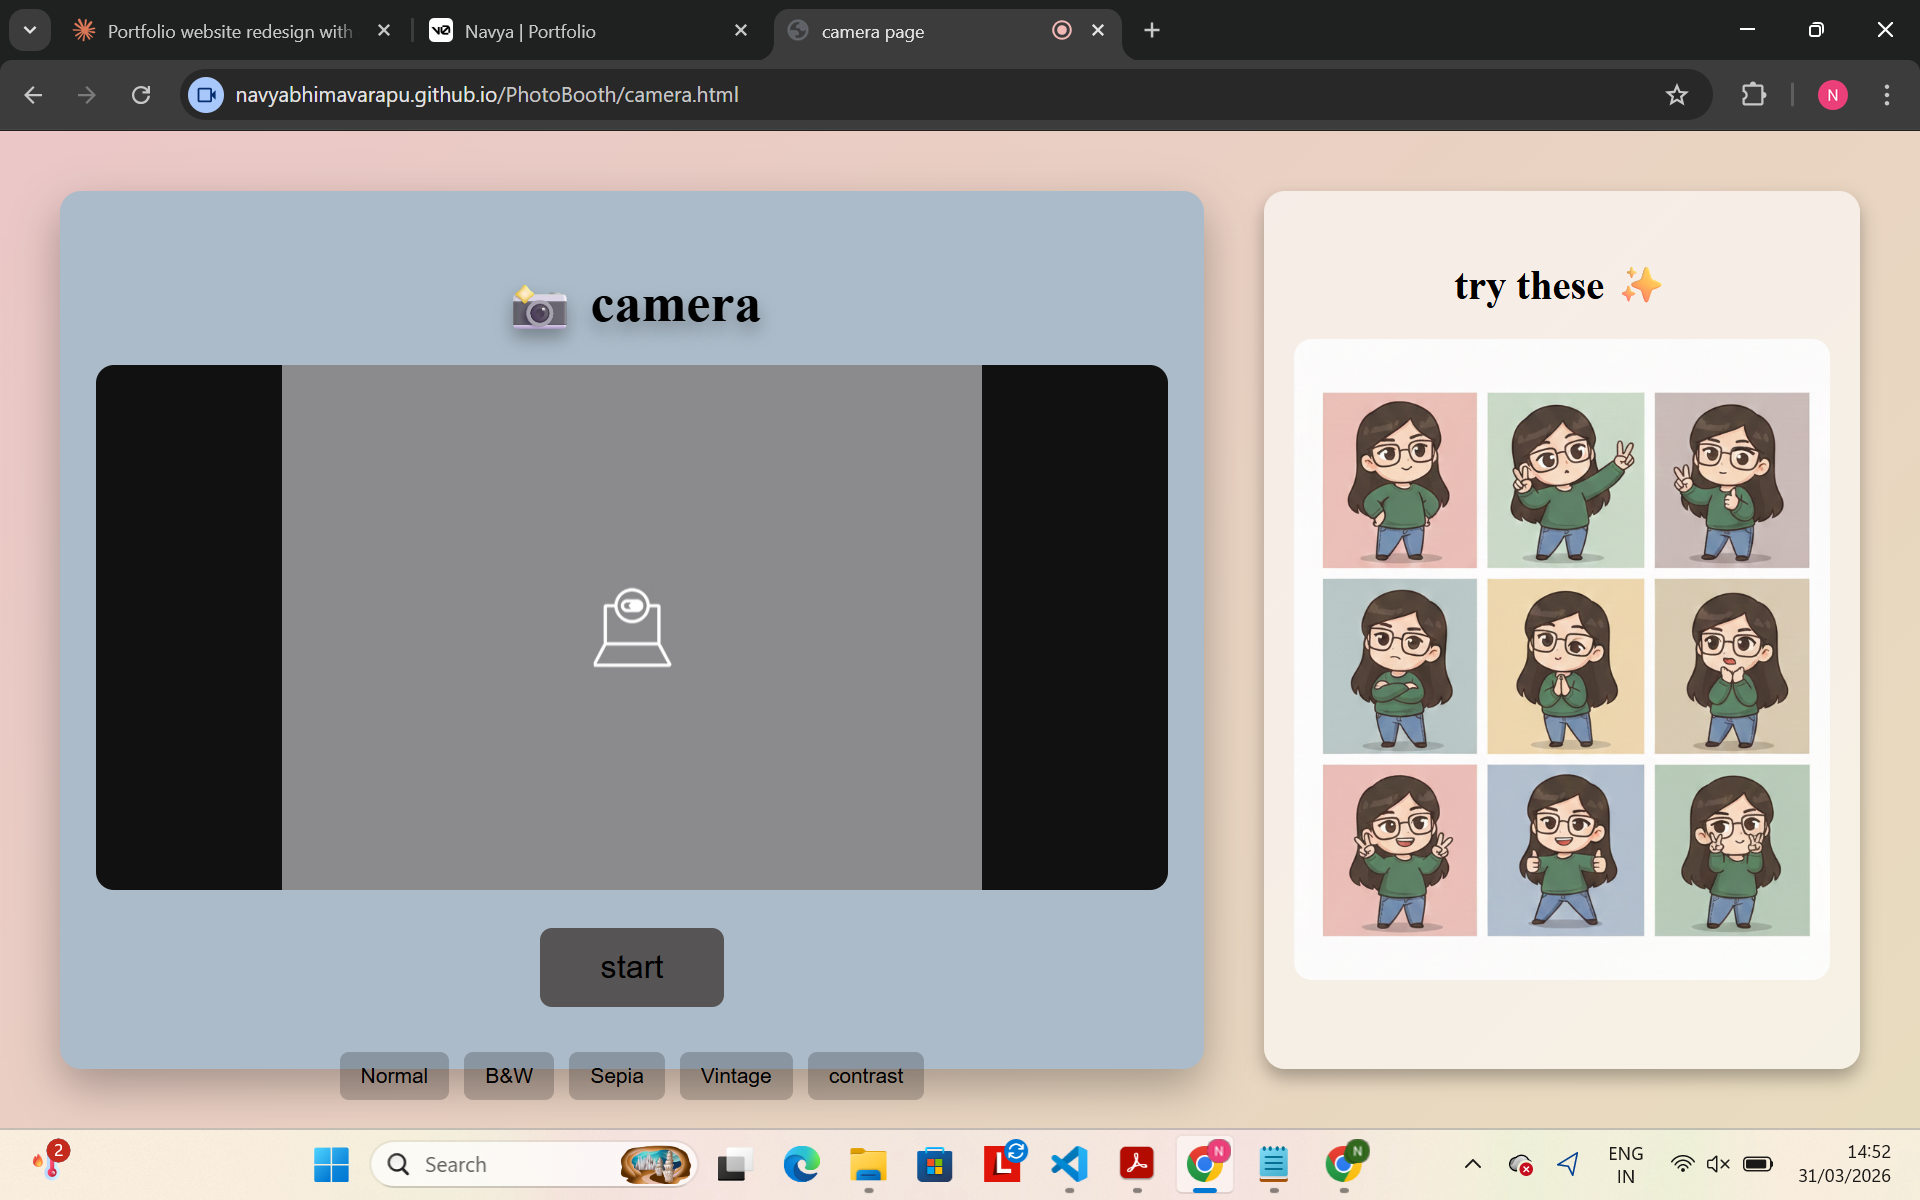
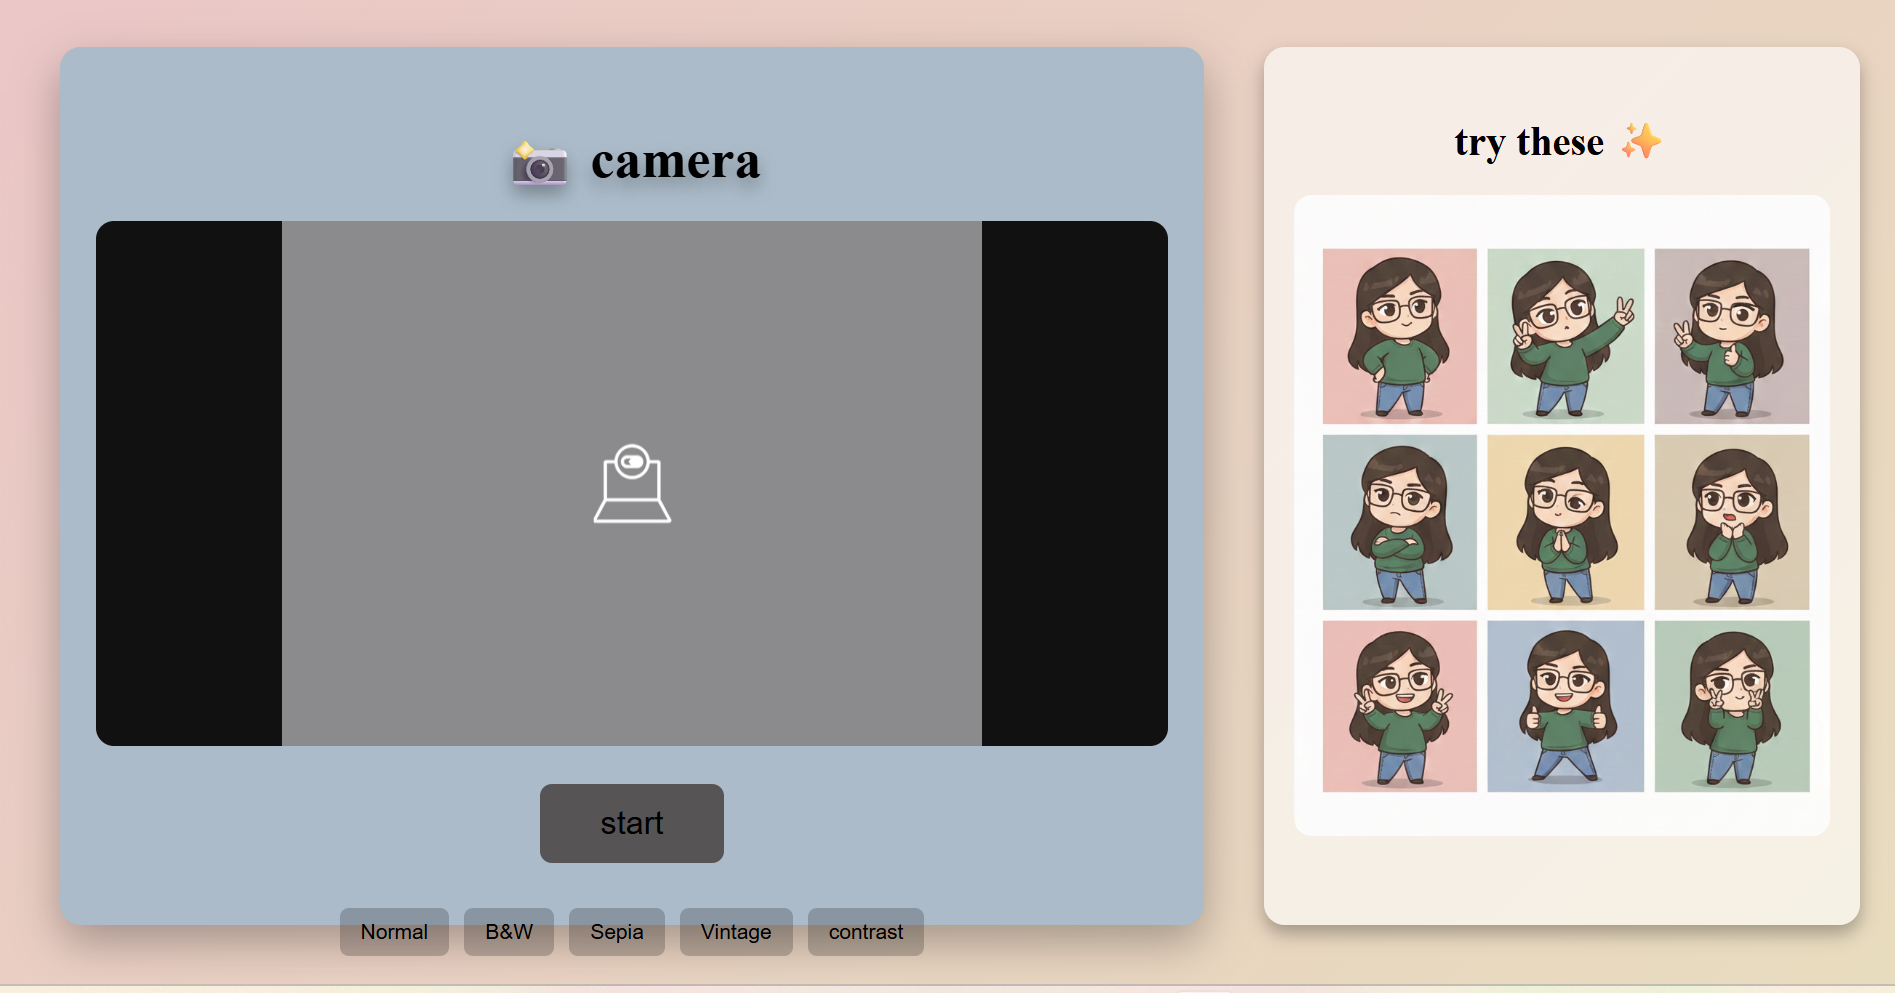
made chnages

diff --git a/components/sections/hero-section.tsx b/components/sections/hero-section.tsx
@@ -36,7 +36,6 @@ function TinyBooks({ style }: { style?: React.CSSProperties }) {
   )
 }
 
-// Cursor-reactive tilt panel
 function TiltPanel({ children, className = "", style }: { children: React.ReactNode; className?: string; style?: React.CSSProperties }) {
   const ref = useRef<HTMLDivElement>(null)
   const [tilt, setTilt] = useState({ x: 0, y: 0 })
@@ -80,48 +79,33 @@ function TiltPanel({ children, className = "", style }: { children: React.ReactN
   )
 }
 
-// Sunray stripes SVG background for image panel
 function SunrayBackground() {
-  // 16 thin rays radiating from bottom-center in a semicircle
   const rays: React.ReactNode[] = []
   const numRays = 16
-  const cx = 50   // percent origin x
-  const cy = 110  // percent origin y (slightly below panel bottom for natural arc)
-  const length = 160 // ray length in percentage units
+  const cx = 50
+  const cy = 110
+  const length = 160
 
   for (let i = 0; i < numRays; i++) {
-    // spread rays from -80deg to +80deg (upward fan)
     const angleDeg = -80 + (160 / (numRays - 1)) * i
     const angleRad = (angleDeg * Math.PI) / 180
     const x2 = cx + length * Math.sin(angleRad)
     const y2 = cy - length * Math.cos(angleRad)
-
     rays.push(
-      <line
-        key={i}
-        x1={`${cx}%`}
-        y1={`${cy}%`}
-        x2={`${x2}%`}
-        y2={`${y2}%`}
-        stroke="black"
-        strokeWidth="1.5"
-        strokeOpacity="0.07"
-      />
+      <line key={i} x1={`${cx}%`} y1={`${cy}%`} x2={`${x2}%`} y2={`${y2}%`}
+        stroke="black" strokeWidth="1.5" strokeOpacity="0.07" />
     )
   }
 
   return (
-    <svg
-      className="absolute inset-0 w-full h-full pointer-events-none z-0"
-      xmlns="http://www.w3.org/2000/svg"
-      preserveAspectRatio="none"
-    >
+    <svg className="absolute inset-0 w-full h-full pointer-events-none z-0"
+      xmlns="http://www.w3.org/2000/svg" preserveAspectRatio="none">
       {rays}
     </svg>
   )
 }
 
-const characterImages = ["/my-image1.png", "/my-image.png"]
+const characterImages = ["/my-image1 (2).png", "/my-image (2).png"]
 
 export function HeroSection() {
   const [roleIndex, setRoleIndex] = useState(0)
@@ -136,7 +120,6 @@ export function HeroSection() {
     return () => clearInterval(interval)
   }, [isHovering])
 
-  // Auto-cycle images every 2.5s — instant swap, no fade
   useEffect(() => {
     intervalRef.current = window.setInterval(() => {
       setImgIndex((prev) => (prev + 1) % characterImages.length)
@@ -149,7 +132,8 @@ export function HeroSection() {
       {/* Speed lines */}
       <div className="absolute inset-0 overflow-hidden pointer-events-none">
         {[...Array(15)].map((_, i) => (
-          <div key={i} className="absolute bg-foreground/[0.03]" style={{ width: "2px", height: "200%", right: `${i * 7}%`, top: "-50%", transform: `rotate(${12 + i * 0.5}deg)` }} />
+          <div key={i} className="absolute bg-foreground/[0.03]"
+            style={{ width: "2px", height: "200%", right: `${i * 7}%`, top: "-50%", transform: `rotate(${12 + i * 0.5}deg)` }} />
         ))}
       </div>
 
@@ -167,10 +151,9 @@ export function HeroSection() {
         <div className="w-full max-w-[1400px] mx-auto px-6 md:px-12 lg:px-16">
           <div className="grid grid-cols-12 gap-4 md:gap-6 items-stretch min-h-[70vh]">
 
-            {/* Left text panel — cursor reactive tilt */}
+            {/* Left text panel */}
             <div className="col-span-12 lg:col-span-7 flex items-center">
               <TiltPanel className="w-full border-[6px] border-foreground p-8 md:p-12 bg-background relative group">
-                {/* FIX: "01" label properly positioned above heading */}
                 <div className="absolute -top-4 -left-3 bg-foreground text-background px-3 py-1.5 font-[family-name:var(--font-display)] text-sm leading-none">01</div>
 
                 <h1 className="font-[family-name:var(--font-display)] text-4xl md:text-5xl lg:text-6xl mb-6 mt-2">
@@ -180,15 +163,11 @@ export function HeroSection() {
                 <p className="font-[family-name:var(--font-display)] text-3xl md:text-5xl lg:text-6xl mb-3">And I&apos;m a</p>
 
                 <h2 className="font-[family-name:var(--font-display)] text-3xl md:text-4xl lg:text-5xl mb-8">
-                  <span
-                    className="relative inline-block cursor-pointer"
+                  <span className="relative inline-block cursor-pointer"
                     onMouseEnter={() => setIsHovering(true)}
-                    onMouseLeave={() => setIsHovering(false)}
-                  >
-                    <span
-                      className="relative z-10 px-3 py-1 inline-block transition-all duration-300"
-                      style={{ background: isHovering ? "#FFDDE2" : "var(--foreground)", color: isHovering ? "var(--foreground)" : "var(--background)" }}
-                    >
+                    onMouseLeave={() => setIsHovering(false)}>
+                    <span className="relative z-10 px-3 py-1 inline-block transition-all duration-300"
+                      style={{ background: isHovering ? "#FFDDE2" : "var(--foreground)", color: isHovering ? "var(--foreground)" : "var(--background)" }}>
                       {roles[roleIndex]}
                     </span>
                   </span>
@@ -198,7 +177,6 @@ export function HeroSection() {
                   CS undergrad at IARE, passionate about Web Development and Design. Building innovative solutions and continuously expanding my skills.
                 </p>
 
-                {/* CTA buttons */}
                 <div className="flex flex-wrap gap-3 mt-8">
                   <a href="#projects" className="px-5 py-2.5 bg-foreground text-background font-[family-name:var(--font-display)] text-sm tracking-wide border-2 border-foreground hover:bg-[#FFDDE2] hover:text-foreground transition-all duration-200">
                     View Work ↓
@@ -217,25 +195,40 @@ export function HeroSection() {
               </TiltPanel>
             </div>
 
-            {/* Right image panel */}
-            <div className="col-span-12 lg:col-span-5 flex items-center">
+            {/* Right image panel — FIXED alignment */}
+            <div className="col-span-12 lg:col-span-5 flex items-stretch">
               <TiltPanel
-                className="w-full h-full min-h-[400px] md:min-h-[500px] lg:min-h-full border-[6px] border-foreground bg-secondary/5 relative overflow-hidden"
+                className="w-full border-[6px] border-foreground bg-secondary/5 relative overflow-hidden"
+                style={{ minHeight: "520px" }}
               >
                 {/* "!" badge */}
                 <div className="absolute -top-4 -right-3 bg-[#FFDDE2] text-foreground px-3 py-1.5 font-[family-name:var(--font-display)] text-sm z-20">!</div>
 
-                {/* Sunray background */}
                 <SunrayBackground />
 
-                {/* Image — instant swap, no fade, perfectly centered and bottom-aligned */}
-                <div className="absolute inset-0 flex items-end justify-center z-10">
+                {/* 
+                  KEY FIX: Image is absolutely positioned, pinned to the bottom of the panel.
+                  - inset-x-0 bottom-0: stretches full width, anchored at bottom
+                  - height: 92%: fills most of the panel so the character looks tall and present
+                  - objectFit contain + objectPosition bottom center: 
+                      scales the image to fit within the box while keeping feet at the bottom edge
+                  This prevents the tiny/floaty look and makes the character feel grounded.
+                */}
+                <div
+                  className="absolute inset-x-0 bottom-0 z-10"
+                  style={{ height: "92%" }}
+                >
                   <img
                     key={imgIndex}
                     src={characterImages[imgIndex]}
                     alt="Character"
-                    className="w-full h-full object-contain object-bottom"
-                    style={{ display: "block" }}
+                    style={{
+                      width: "100%",
+                      height: "100%",
+                      objectFit: "contain",
+                      objectPosition: "bottom center",
+                      display: "block",
+                    }}
                     onError={(e) => {
                       const t = e.target as HTMLImageElement
                       if (!t.src.endsWith("/my-image.png")) t.src = "/my-image.png"
@@ -246,14 +239,11 @@ export function HeroSection() {
                 {/* Dot indicators */}
                 <div className="absolute bottom-4 left-0 right-0 flex justify-center gap-2 z-20">
                   {characterImages.map((_, i) => (
-                    <div
-                      key={i}
-                      className="w-1.5 h-1.5 rounded-full transition-all duration-300"
+                    <div key={i} className="w-1.5 h-1.5 rounded-full transition-all duration-300"
                       style={{
                         background: i === imgIndex ? "var(--foreground)" : "var(--muted-foreground)",
                         opacity: i === imgIndex ? 1 : 0.3,
-                      }}
-                    />
+                      }} />
                   ))}
                 </div>
 
@@ -269,7 +259,7 @@ export function HeroSection() {
 
       {/* Scroll indicator */}
       <div className="absolute bottom-8 left-1/2 -translate-x-1/2 flex flex-col items-center gap-2 z-10">
-        <span className="font-[family-name:var(--font-display)] text-[10px] tracking-[0.4em] text-muted-foreground">SCROLL</span>
+        <span className="font-[family-name:var(--font-display)] text-[10px] tracking-[0.4em] text-muted-foreground"></span>
         <div className="w-px h-8 bg-foreground/40 animate-pulse" />
       </div>
     </section>

diff --git a/components/sections/contact-section.tsx b/components/sections/contact-section.tsx
@@ -58,9 +58,9 @@ const contacts = [
   },
   {
     label: "Instagram",
-    handle: "@navya._sri",
+    handle: "@navya_bhimavarapu",
     sub: "Behind the scenes",
-    url: "#",  // add real URL when ready
+    url: "#", 
     Icon: InstagramIcon,
   },
 ]
@@ -243,7 +243,7 @@ export function ContactSection() {
               <span className="text-[#FFDDE2]">Navya</span> Bhimavarapu
             </p>
             <p className="font-[family-name:var(--font-display)] text-[10px] tracking-[0.4em] text-muted-foreground">
-              © 2024 · CRAFTED WITH ♡ + ∞ CUPS OF TEA
+              © 2026 · CRAFTED WITH ♡ + ∞ LINES OF CODE
             </p>
           </div>
         </div>

diff --git a/components/sections/projects-section.tsx b/components/sections/projects-section.tsx
@@ -20,7 +20,7 @@ const projects: Project[] = [
     tags: ["FastAPI", "XGBoost", "Scikit-learn", "SQLite", "Python"],
     badge: "✦ ML-Powered",
     githubUrl: "https://github.com/padmakruthi/goldenbatch-ai",
-    image: "/GB.png",
+    image: "/GB2.png",
   },
   {
     title: "Echo Health",
